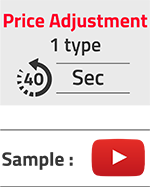
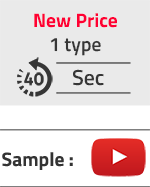
update homepage

diff --git a/resources/views/frontend/pages/frontpage/revid-cost.blade.php b/resources/views/frontend/pages/frontpage/revid-cost.blade.php
@@ -35,14 +35,14 @@
         </tr>
         <tr>
             <td><b>Main Video in Fullscreen</b>
-                <div>Main60 + Upgrade90</div>
+                <div>Main60 + Upgsize90</div>
             </td>
             <td><b>Yes</b></td>
             <td><b>Yes</b></td>
         </tr>
         <tr>
             <td><b>Main Video in Agent Frame</b>
-                <div>Main60 + Upgrade90</div>
+                <div>Main60 + Upsize90</div>
             </td>
             <td><b>Yes</b></td>
             <td><b>Yes</b></td>
@@ -65,7 +65,7 @@
             <td><b>Yes</b></td>
         </tr>
         <tr>
-            <td><b>Price Adjustment Video</b> 
+            <td><b>New Price Video</b> 
                 <div>40 Seconds</div>
             </td>
             <td><b>No, extra $20</b></td>
